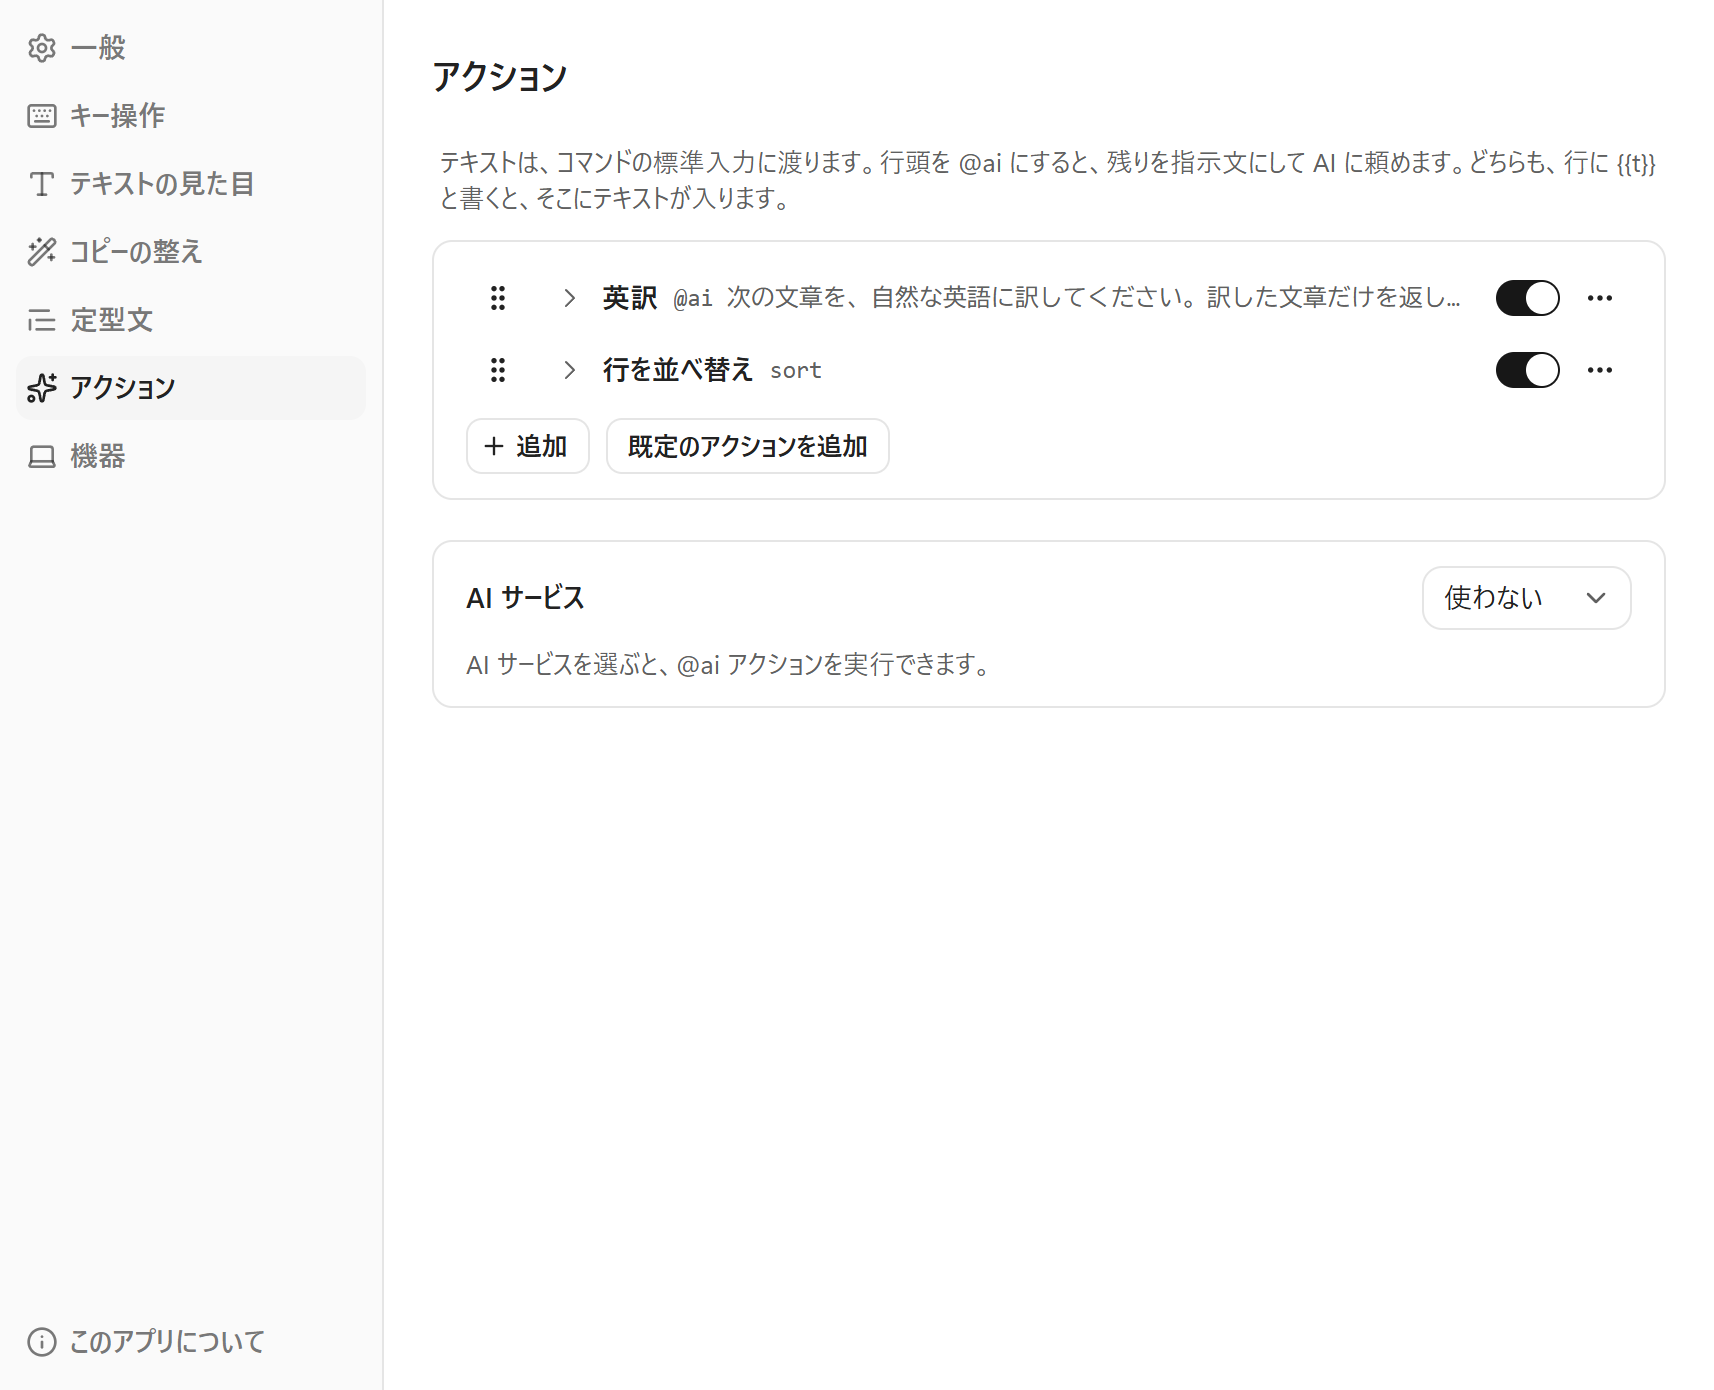
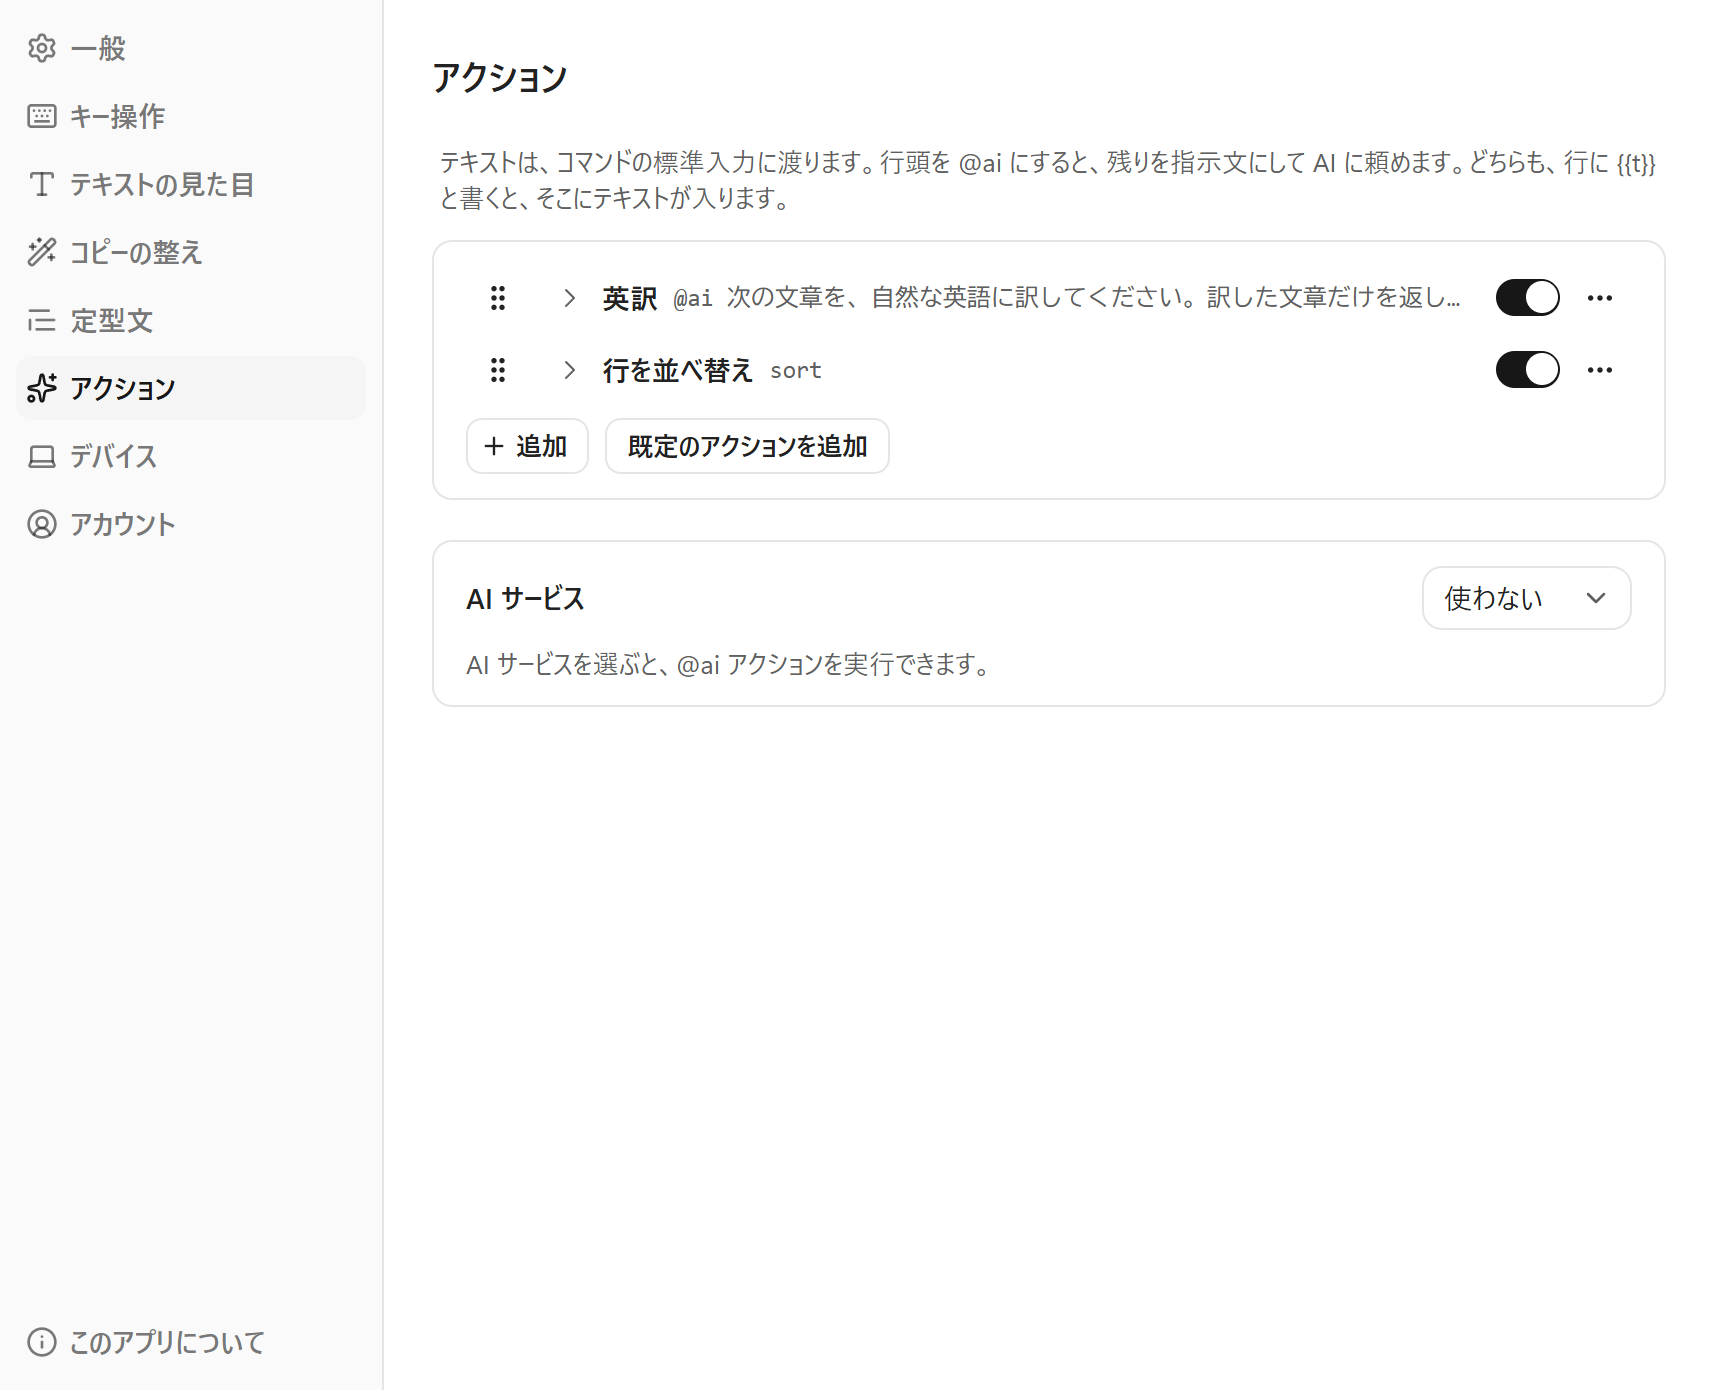
紹介のページの画像を今の画面で撮り直す (#48)
* 公開サイトの画像を今の画面で撮り直す

デバイスの間の送受信を無料に戻した (#47) 後の画面に合わせ、設定の左の一覧の「デバイス」「アカウント」と、
「デバイスを追加」の確認コードの画面で撮り直した。前と同じ中身と大きさ (2 倍) にしてある。

* 紹介のページのデバイスの画像の説明を、今の画面の言い方に合わせる

撮り直した画像は「送信先のデバイス」「デバイスを追加」「確認コード」になっている。

diff --git a/site/src/content/index.md b/site/src/content/index.md
@@ -30,7 +30,7 @@ status: coming-soon
 
 自分の Mac や Windows は、6桁の確認コードで追加します。あとは、書いたテキストをそのまま送れます。
 
-![設定画面の「デバイス」。「MacBook Air」と「仕事用のノート PC」とペアリング済みで、「ほかのデバイスとペアリング」に6桁のコードと残りの秒数が出ている](./images/settings-devices-code.png)
+![設定画面の「デバイス」。「送信先のデバイス」に「MacBook Air」と「仕事用のノート PC」が並び、「デバイスを追加」に6桁の確認コードと、新しい確認コードに替わるまでの残りの秒数が出ている](./images/settings-devices-code.png)
 
 アクションは、設定で登録しておき、テキストウィンドウで選んで使います。最初から、AI に頼む「英訳」と、行を並べ替える「sort」のコマンドが入っています。AI に頼むアクションは、AI サービスに「Mawok」（アカウントのクレジット）か、自分の API キーで使う Gemini・Anthropic・OpenAI を選ぶと使えます。
 
